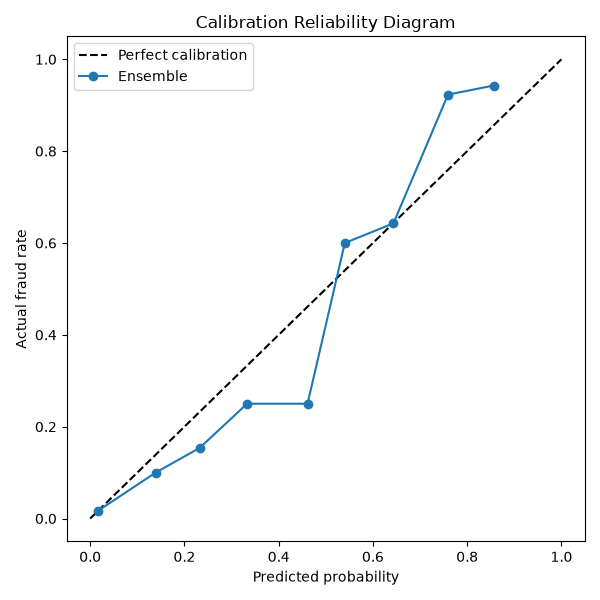
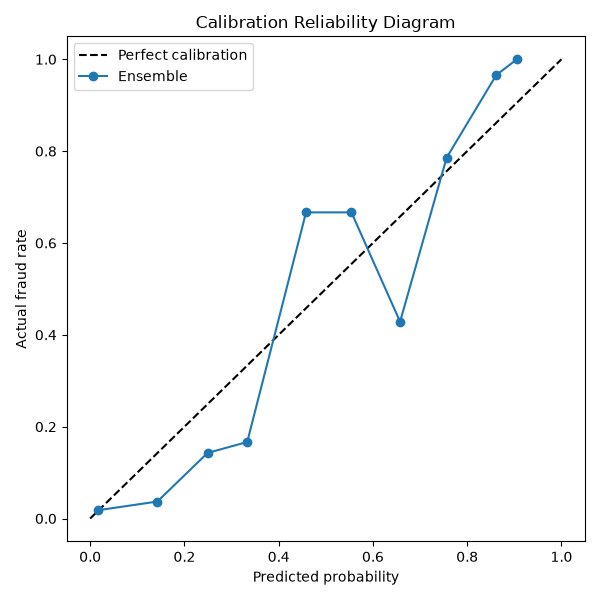
remove transaction_id leak from feature set, retrain full test report — 12.67% cost reduction

diff --git a/Models/test_report.py b/Models/test_report.py
@@ -10,7 +10,8 @@ from sklearn.metrics import precision_score, recall_score, f1_score, roc_auc_sco
 # ---------- Load everything ----------
 test_df = pd.read_csv("data/test_features.csv")
 TARGET = "is_fraud"
-feature_cols = [c for c in test_df.columns if c != TARGET]
+ID_COLS = ["transaction_id"]
+feature_cols = [c for c in test_df.columns if c != TARGET and c not in ID_COLS]
 X_test = test_df[feature_cols]
 y_test = test_df[TARGET].values
 
